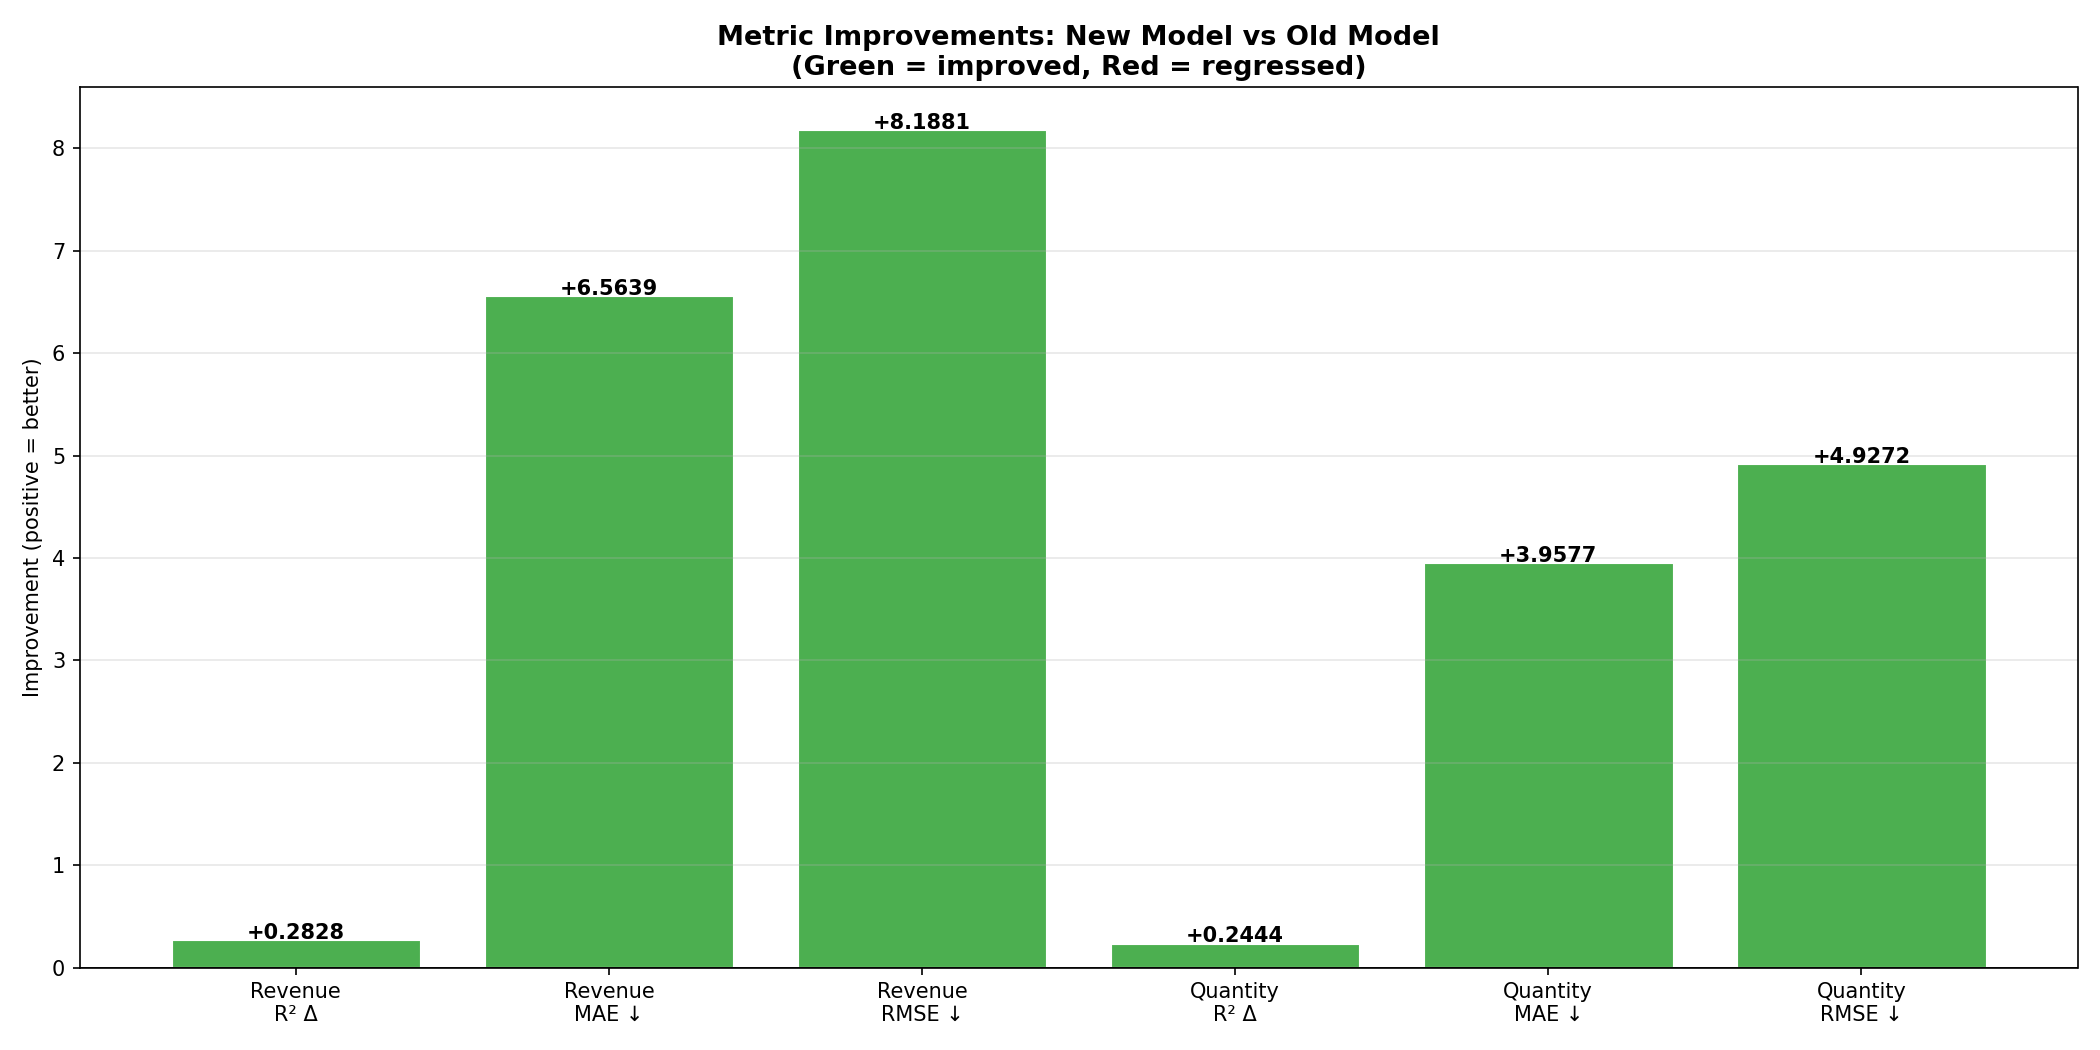
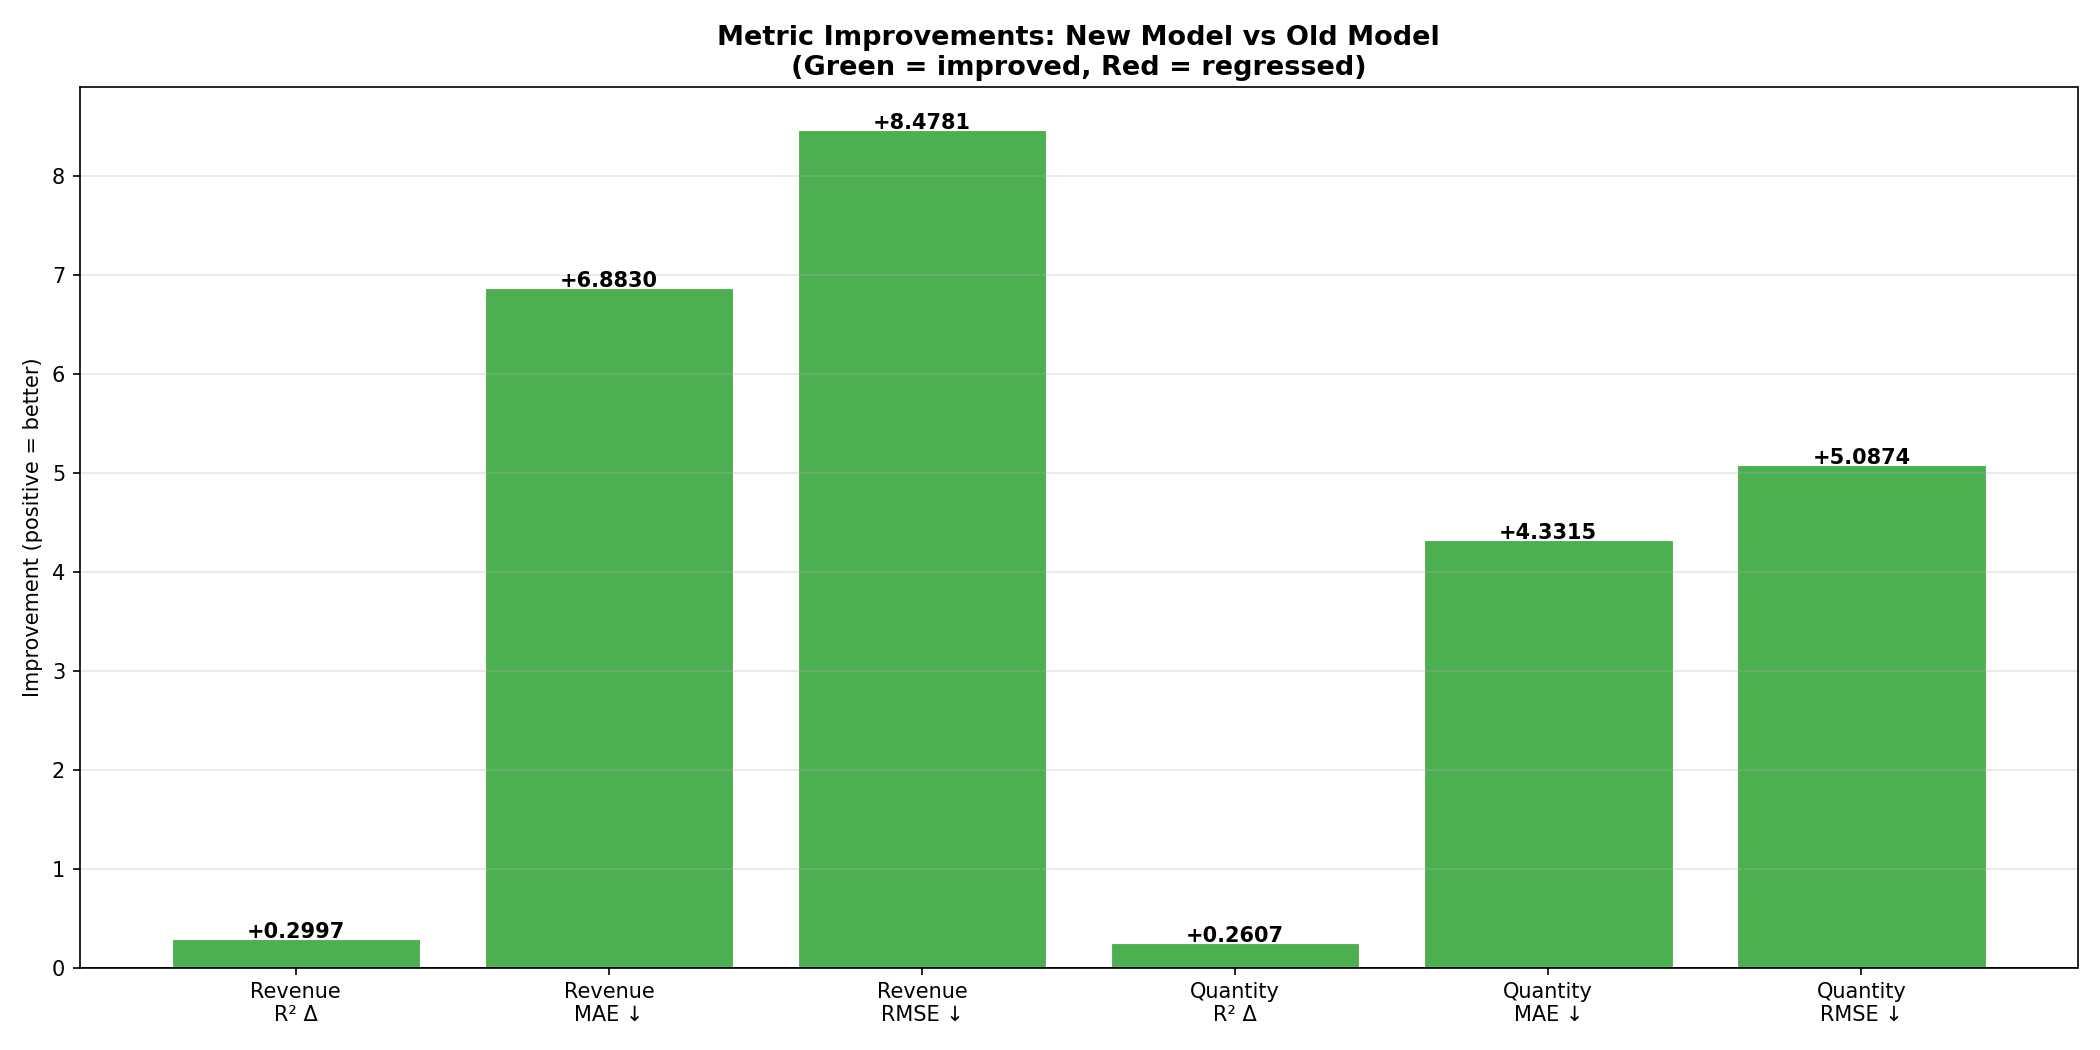
chore: sync local cleanup and model outputs

diff --git a/ml/retrain_and_compare.py b/ml/retrain_and_compare.py
@@ -29,7 +29,7 @@ import matplotlib.pyplot as plt
 
 from sklearn.ensemble import GradientBoostingRegressor
 from sklearn.linear_model import Ridge
-from sklearn.model_selection import train_test_split, cross_val_score
+from sklearn.model_selection import GridSearchCV, train_test_split, cross_val_score
 from sklearn.metrics import mean_absolute_error, mean_squared_error, r2_score
 
 sys.path.insert(0, os.path.dirname(__file__))
@@ -154,20 +154,78 @@ def train_ridge(X_train, y_train):
     return model
 
 
+def _print_grid_results_table(grid_search, label: str = "") -> None:
+    """In bảng so sánh tất cả tổ hợp tham số của Grid Search."""
+    results = grid_search.cv_results_
+    rows = []
+    for i in range(len(results["params"])):
+        p = results["params"][i]
+        rows.append({
+            "#": i + 1,
+            "n_estimators": p["n_estimators"],
+            "max_depth": p["max_depth"],
+            "learning_rate": p["learning_rate"],
+            "subsample": p["subsample"],
+            "CV R² mean": round(results["mean_test_score"][i], 4),
+            "CV R² std": round(results["std_test_score"][i], 4),
+            "rank": int(results["rank_test_score"][i]),
+        })
+
+    rows.sort(key=lambda r: r["rank"])
+
+    header_label = f"[GRID SEARCH] Kết quả tất cả {len(rows)} tổ hợp tham số" + (f" — {label}" if label else "")
+    print("\n" + "=" * 90)
+    print(header_label)
+    print("=" * 90)
+    header = f"{'#':>3}  {'n_est':>6}  {'depth':>5}  {'lr':>6}  {'sub':>5}  {'CV R² mean':>10}  {'CV R² std':>9}  {'rank':>4}"
+    print(header)
+    print("-" * 90)
+    for r in rows:
+        marker = " <<<" if r["rank"] == 1 else ""
+        print(
+            f"{r['#']:>3}  {r['n_estimators']:>6}  {r['max_depth']:>5}  "
+            f"{r['learning_rate']:>6.4f}  {r['subsample']:>5.2f}  "
+            f"{r['CV R² mean']:>10.4f}  {r['CV R² std']:>9.4f}  {r['rank']:>4}{marker}"
+        )
+    print("=" * 90)
+    print(f"[GRID SEARCH] >>> BEST: n_estimators={grid_search.best_params_['n_estimators']}, "
+          f"max_depth={grid_search.best_params_['max_depth']}, "
+          f"learning_rate={grid_search.best_params_['learning_rate']}, "
+          f"subsample={grid_search.best_params_['subsample']} "
+          f"→ CV R²={round(grid_search.best_score_, 4)}")
+    print("=" * 90 + "\n")
+
+
 def retrain_model(X_train, y_train, n_estimators=200, max_depth=6,
-                  learning_rate=0.1, subsample=0.8):
-    """Train một GradientBoosting mới với hyperparameters tuỳ chỉnh."""
-    model = GradientBoostingRegressor(
-        n_estimators=n_estimators,
-        max_depth=max_depth,
-        learning_rate=learning_rate,
-        subsample=subsample,
+                  learning_rate=0.1, subsample=0.8, label: str = ""):
+    """Train GradientBoosting bằng Grid Search để chọn hyperparameters tốt nhất."""
+    base_model = GradientBoostingRegressor(
         min_samples_split=10,
         min_samples_leaf=5,
         random_state=42,
     )
-    model.fit(X_train, y_train)
-    return model
+
+    param_grid = {
+        "n_estimators": [max(50, n_estimators - 50), n_estimators, n_estimators + 50],
+        "max_depth": [max(2, max_depth - 1), max_depth, max_depth + 1],
+        "learning_rate": [max(0.01, learning_rate / 2), learning_rate, min(0.3, learning_rate * 1.5)],
+        "subsample": [0.8, subsample, 1.0],
+    }
+
+    grid_search = GridSearchCV(
+        estimator=base_model,
+        param_grid=param_grid,
+        cv=3,
+        scoring="r2",
+        n_jobs=-1,
+        verbose=0,
+        refit=True,
+    )
+    grid_search.fit(X_train, y_train)
+
+    _print_grid_results_table(grid_search, label=label)
+
+    return grid_search.best_estimator_, grid_search.best_params_, round(grid_search.best_score_, 4)
 
 
 def evaluate_model(model, X_test, y_test, X_full, y_full):
@@ -432,14 +490,6 @@ def main():
         "algorithm": "Ridge Regression",
         "alpha": 1.0,
     }
-    new_config = {
-        "n_samples": args.new_samples,
-        "algorithm": "GradientBoosting",
-        "n_estimators": args.new_estimators,
-        "max_depth": args.new_depth,
-        "learning_rate": args.new_lr,
-    }
-
     # ── Step 2: Generate data (same dataset, fair comparison) ──
     n_samples = args.new_samples
     print(f"\n[DATA] Generating {n_samples} samples (same for both models)...")
@@ -465,14 +515,34 @@ def main():
     # ── Step 4: Train NEW model (GradientBoosting — improved) ──
     print(f"\n[NEW] Training NEW model: GradientBoosting ({args.new_estimators} est, "
           f"depth={args.new_depth}, lr={args.new_lr})...")
-    new_rev_model = retrain_model(X_train_r, y_train_rev,
-                                  n_estimators=args.new_estimators,
-                                  max_depth=args.new_depth,
-                                  learning_rate=args.new_lr)
-    new_qty_model = retrain_model(X_train_q, y_train_qty,
-                                  n_estimators=args.new_estimators,
-                                  max_depth=args.new_depth,
-                                  learning_rate=args.new_lr)
+    new_rev_model, new_rev_best_params, new_rev_grid_r2 = retrain_model(
+        X_train_r,
+        y_train_rev,
+        n_estimators=args.new_estimators,
+        max_depth=args.new_depth,
+        learning_rate=args.new_lr,
+        label="Revenue",
+    )
+    new_qty_model, new_qty_best_params, new_qty_grid_r2 = retrain_model(
+        X_train_q,
+        y_train_qty,
+        n_estimators=args.new_estimators,
+        max_depth=args.new_depth,
+        learning_rate=args.new_lr,
+        label="Quantity",
+    )
+
+    new_config = {
+        "n_samples": args.new_samples,
+        "algorithm": "GradientBoosting",
+        "n_estimators": args.new_estimators,
+        "max_depth": args.new_depth,
+        "learning_rate": args.new_lr,
+        "best_params_revenue": new_rev_best_params,
+        "best_params_quantity": new_qty_best_params,
+        "grid_search_cv_r2_revenue": new_rev_grid_r2,
+        "grid_search_cv_r2_quantity": new_qty_grid_r2,
+    }
 
     print("[EVAL] Evaluating new model on common test set...")
     new_rev_eval = evaluate_model(new_rev_model, X_test_r, y_test_rev, X_full, y_rev)
